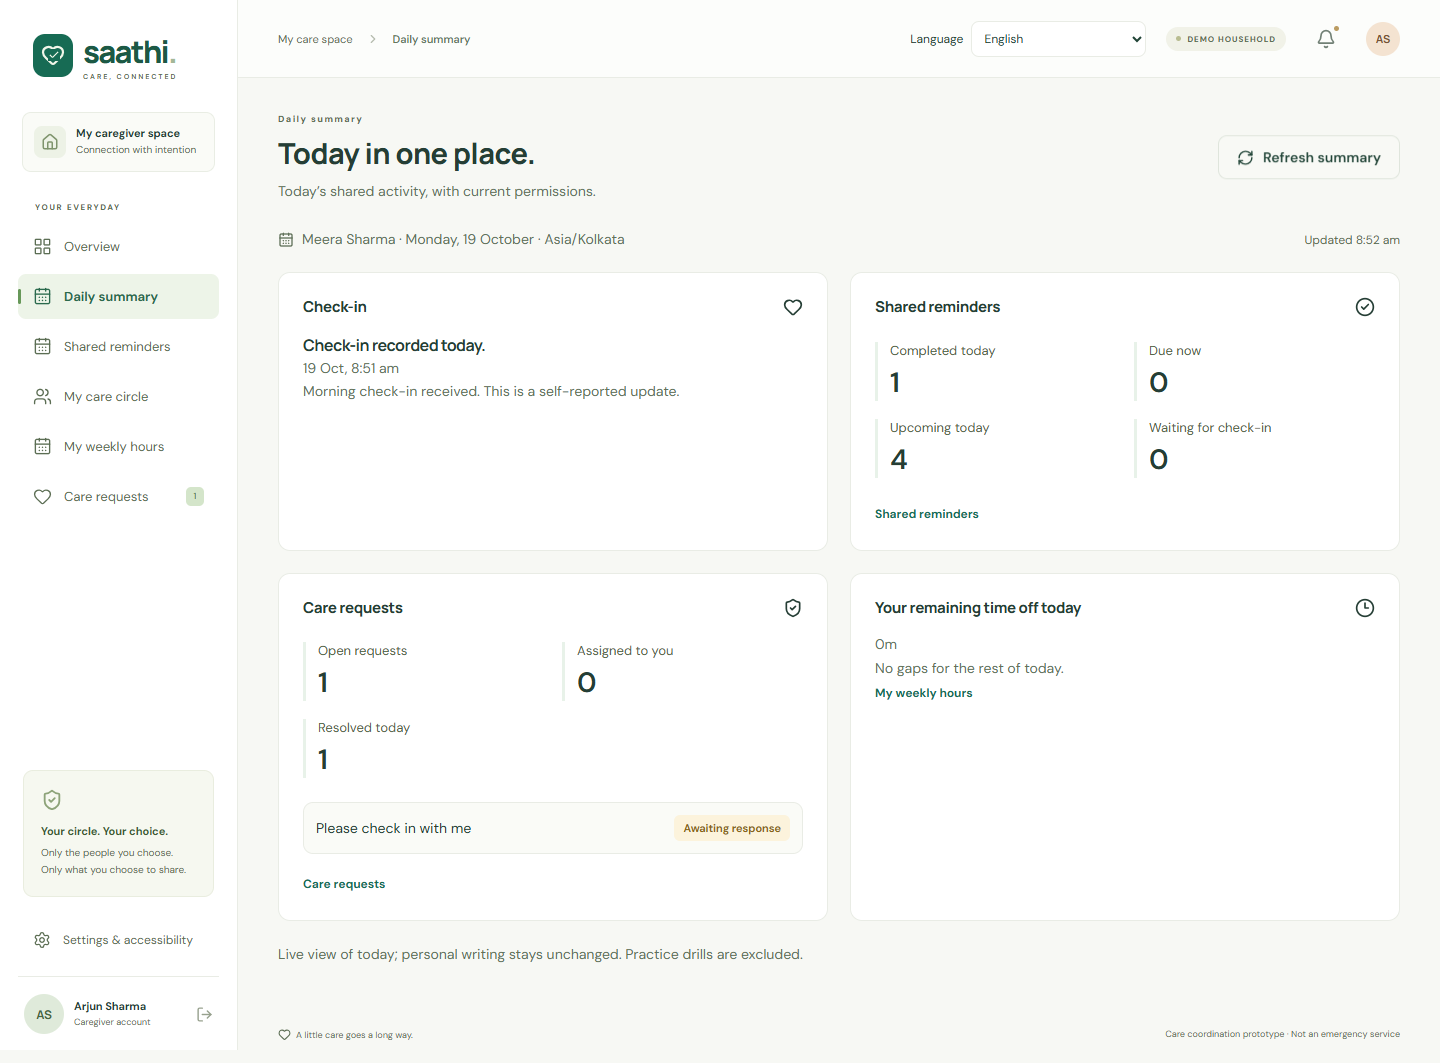
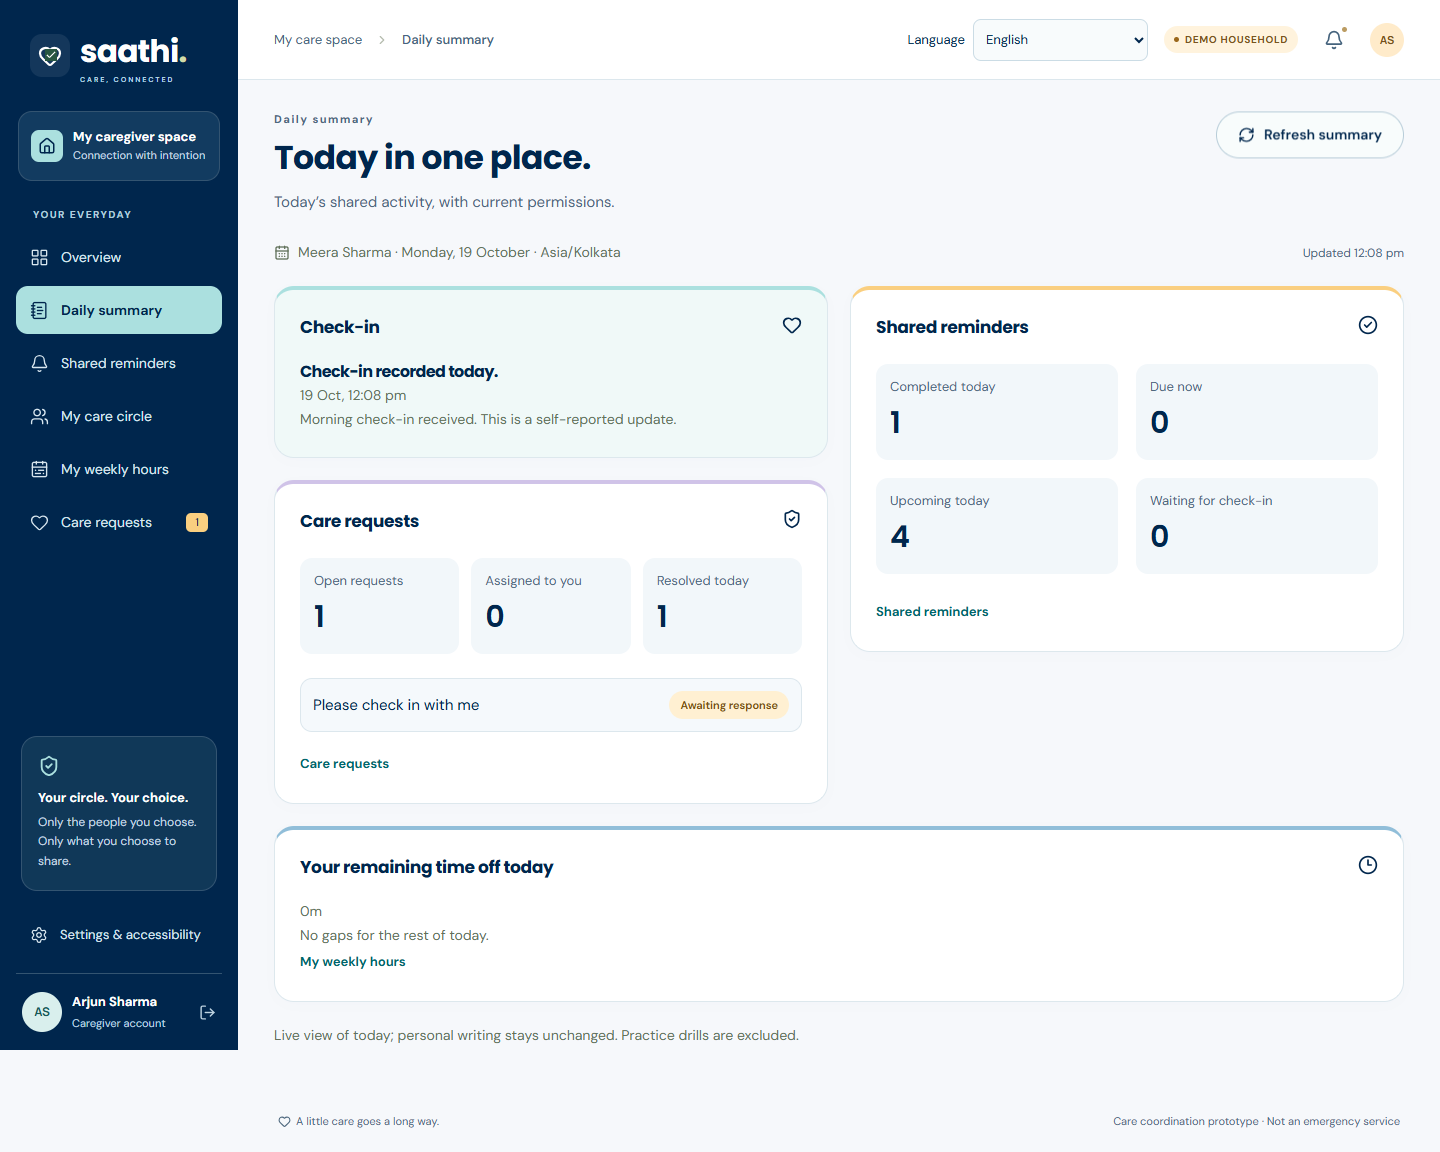
docs: record redesign visual QA and refresh verified screenshots

diff --git a/design-qa.md b/design-qa.md
@@ -1,0 +1,54 @@
+# Saathi care workspace redesign QA
+
+Verified 19 October 2026 in installed Google Chrome, headless, against the running local app.
+
+## Scope and visual evidence
+
+The selected visual reference is the [Birdie Family App feature page](https://www.birdie.care/product-features/family-app). This is an adaptation of its visual language to Saathi's existing interactive application. Birdie's public marketing page and Saathi's authenticated care workspace represent different product states; their navigation, content and column proportions intentionally differ. This report does not claim a pixel-identical Birdie app clone.
+
+- Source capture: `.runtime/design-reference/birdie-viewport.png`, 1440 × 1050 pixels.
+- Implementation capture: `.runtime/design-reference/overview-desktop.png`, 1440 × 1050 pixels.
+- Both use a 1440 × 1050 CSS viewport and device scale factor 1. No density normalization was needed.
+- Combined visual comparison: [reference and implementation together](docs/screenshots/redesign-comparison.png), 2880 × 1090 pixels, with each capture at its original size beneath a label.
+- Entry comparison: `.runtime/design-reference/entry-comparison.png`, same dimensions and density.
+- Focused views inspected: [Hindi confirmation](docs/screenshots/language-hindi.png), [Urdu mobile coverage](docs/screenshots/language-urdu-mobile.png), [daily summary](docs/screenshots/daily-summary.png), [coverage editor and planner](docs/screenshots/coverage-planner.png), and [sharing preview](docs/screenshots/sharing-preview.png). These make the text, form controls, status colors and localized wrapping readable beyond the full-view comparison.
+- All nine older-adult pages were captured at desktop 1440 × 1050 and mobile 390 × 844. Caregiver overview and daily summary were captured separately. No horizontal document overflow or browser page errors were recorded in this walkthrough. Local full captures and the audit JSON are under `.runtime/design-reference/` (ignored scratch evidence).
+
+## Findings and iteration history
+
+1. **P2, summary information density — fixed.** The first version stretched the short check-in panel to match the reminders panel, leaving a large empty card. The revised grid groups the compact check-in and requests beside reminders, with coverage beneath. The final summary capture confirms that all four areas remain readable and the unused card space is removed.
+2. **P2, mobile navigation keyboard access — fixed.** The menu now includes an explicit close control, Escape dismissal, focus containment and focus restoration. The closed mobile navigation is inert, so offscreen controls cannot receive keyboard focus. Resizing to desktop exits the mobile menu state. The browser regression verifies inert state, focus wrapping and restoration.
+3. **Test ambiguity — fixed.** The functional daily-summary shortcut introduced a second button with the navigation label. Existing tests now select the main navigation explicitly. Assertions about data, sharing and outcomes remain intact.
+
+The post-fix visual review uses the final combined comparison and the regenerated browser screenshots linked above. No actionable P0, P1 or P2 visual issues remain in the reviewed states.
+
+## Required fidelity surfaces
+
+| Surface              | Review                                                                                                                                                                                                                                                                                                                                                                  |
+| -------------------- | ----------------------------------------------------------------------------------------------------------------------------------------------------------------------------------------------------------------------------------------------------------------------------------------------------------------------------------------------------------------------- |
+| Fonts and typography | Birdie's computed heading font was Poppins with navy text. Saathi now bundles Poppins locally for English headings, retains its readable DM Sans body, and preserves the existing regional font fallbacks. Headings, secondary text and form labels were inspected in English, Hindi and Urdu.                                                                          |
+| Spacing and layout   | Shared 18–26px rounded surfaces, consistent card padding, larger section gaps and pill actions follow the reference's spacious composition. Navigation adapts to the working app. Mobile cards stack; the weekly calendar uses three columns on small screens.                                                                                                          |
+| Colors and tokens    | Deep navy `#00264d`, aqua `#abe0df`, yellow `#facf80` and pale aqua panels match the source direction. Success, warning and privacy states retain distinct, readable colors and text labels.                                                                                                                                                                            |
+| Images and icons     | No Birdie logos, mascots or product screenshots are used as Saathi assets. Decorative garden artwork was removed. The overview displays actual household identity and a working summary shortcut. Existing Lucide interface icons remain consistent and distinguish navigation destinations. Initial-based avatars are account identifiers, not substitute photographs. |
+| Copy and content     | Saathi's existing translated copy, account names, reminder titles, privacy explanations and care flows remain. No claims of Birdie affiliation were added. Personal writing is displayed as entered.                                                                                                                                                                    |
+
+## Interaction and accessibility verification
+
+The browser suite exercises reminder confirmation and persistence, check-in, primary/backup handoff, acceptance and resolution, sharing preview and revocation, weekly schedule editing and stale writes, all enabled regional interfaces, daily summaries and mobile navigation. Axe scans cover entry, dashboard, reminder dialog, coverage, schedule editor and summary; these automated checks are not a claim of complete WCAG conformance. Browser page-error listeners were checked during the complete page walkthrough.
+
+The production build, 42 backend tests, localization source audit and formatting check pass. The React component review confirms hook cleanup for menu listeners, viewport changes and focus restoration, use of semantic buttons, existing translated accessible names, and preservation of server-driven care state.
+
+## Implementation checklist
+
+- [x] Shared theme and locally bundled heading font.
+- [x] Entry, both account views and every existing care page styled consistently.
+- [x] Summary, coverage, permissions, confirmation dialogs and request timelines included.
+- [x] Mobile navigation, keyboard behavior and reduced-motion support.
+- [x] Regional language and right-to-left layouts checked.
+- [x] Final screenshots compared together with the selected visual source.
+
+## Follow-up polish
+
+Regional translations remain drafts requiring fluent-speaker review, as documented before this redesign. Real older-adult usability testing remains a useful next step. Neither item blocks the visual implementation requested here.
+
+final result: passed

diff --git a/docs/VERIFICATION.md b/docs/VERIFICATION.md
@@ -4,12 +4,14 @@ Verified on **19 October 2026**, using Node **24.13.0**, Windows, and installed 
 
 ## Results
 
+The Birdie-inspired redesign was also reviewed in Chrome across all nine older-adult pages at 1440 × 1050 and 390 × 844, plus the caregiver overview and daily summary. No horizontal document overflow or browser page errors were recorded. Navigation regression checks cover closed-menu inert state, keyboard focus containment, Escape dismissal and focus restoration. See the [design QA and visual comparison](../design-qa.md).
+
 | Check                                | Result                                                                                                                                                      |
 | ------------------------------------ | ----------------------------------------------------------------------------------------------------------------------------------------------------------- |
 | TypeScript and Vite production build | Passed                                                                                                                                                      |
 | Backend test suite                   | 42 tests passed, including daily summary permission isolation, timezone dates, ownership, record counts and account language persistence                    |
 | Local request interpretation dataset | 30 supported/ambiguous/unsupported examples exercised within the backend suite                                                                              |
-| Browser suite                        | 11 tests passed in 58.2 seconds, including daily summaries and all 14 enabled regional interfaces                                                           |
+| Browser suite                        | 11 tests passed in 1.1 minutes after the UI redesign, including daily summaries and all 14 enabled regional interfaces                                      |
 | Accessibility scan                   | No serious or critical WCAG A/AA-tagged axe findings on entry, personal dashboard, reminder dialog, coverage planner, weekly-hours editor and daily summary |
 | Source formatting                    | Prettier check passed                                                                                                                                       |
 | Localization source audit            | Passed; no untranslated literal JSX copy outside the brand name                                                                                             |

diff --git a/README.md b/README.md
@@ -4,6 +4,8 @@
 
 ![Saathi Care dashboard](docs/screenshots/overview.png)
 
+The interface uses a Birdie-inspired navy, aqua and amber visual system across the older-adult and caregiver views, with responsive cards, regional-language layouts and keyboard-accessible mobile navigation. See the [visual comparison and redesign QA](design-qa.md).
+
 ## Run locally
 
 Requires **Node.js 24.x** and npm. SQLite is included with Node; no separate database installation is needed.
